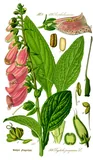
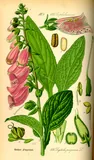
CG-030: fetch the public-domain foxglove scan, verify SOURCES.md roles
Illustration_Digitalis_purpurea0_clean.jpg is CC BY-SA 3.0 as the
editor's own derivative work, not a faithful PD reproduction; this
repository is MIT-licensed and ships no share-alike material, so the
foxglove now pins and fetches the original Illustration_Digitalis_
purpurea0.jpg (public domain), cropped the same way as every other
plate.

SOURCES.md now records three roles per plate instead of one "artist"
column, each verified from the file's own Commons Artist field rather
than assumed from a "_clean"/"_white" filename or the uploader's name:
the plate's illustrator (Thomé, except the fern, whose 1903-printing
plate the title page credits to Walter Müller), the scan's source
(a Commons upload or, for the fern, the Biodiversity Heritage Library),
and the editor of a cleaned derivative where the file page actually
credits one. A Commons username is only ever listed as an editor, never
as an artist.

diff --git a/src/garden/platefetch.py b/src/garden/platefetch.py
@@ -30,10 +30,16 @@ YEAR = "1885"
 
 # Commons names Thomé's plates "Illustration <Genus> <species>0.jpg" (and "... clean.jpg" for
 # the background-removed version). Three plants have no plate under their own name: Thomé drew
-# no corn poppy, so the poppy is his prickly poppy (Tafel 260); the bramble is his Tafel 398,
-# Rubus thyrsoideus Wimm. of the R. fruticosus aggregate, filed under a misspelt "candidans"; and
-# the male fern (Tafel 10) is missing from the plate-only set, so it comes from the Biodiversity
-# Heritage Library's scan of the 1903 printing, which Commons files under Thomé's Flora as well.
+# no corn poppy, so the poppy plate is his prickly poppy, Papaver argemone (Tafel 260); the
+# bramble is his Tafel 398, Rubus thyrsoideus Wimm. of the R. fruticosus aggregate, filed under a
+# misspelt "candidans"; and the male fern (Tafel 10) is missing from the plate-only set, so it
+# comes from the Biodiversity Heritage Library's scan of the 1903 printing, which Commons files
+# under Thomé's Flora as well.
+#
+# The foxglove prefix pins the original public-domain scan ("Digitalis_purpurea0.jpg"), not the
+# "_clean" background-removed derivative, which Commons licenses CC BY-SA 3.0 as the editor's own
+# work rather than a faithful reproduction of Thomé's plate: this repository is MIT-licensed and
+# ships no share-alike material.
 #
 # The seven below are picked from Commons' "Thomé, Flora von Deutschland (modified)" category for
 # colour that pops against the other five's greens and dusty pinks: peony's deep magenta, quince's
@@ -43,7 +49,7 @@ YEAR = "1885"
 CANDIDATES: dict[str, list[str]] = {
     "pea": ["Illustration_Pisum_sativum"],
     "bramble": ["Illustration_Rubus_candidans0."],
-    "foxglove": ["Illustration_Digitalis_purpurea"],
+    "foxglove": ["Illustration_Digitalis_purpurea0."],
     "fern": ["Prof._Dr._Thomé's_Flora_von_Deutschland,_Österreich_und_der_Schweiz,_in_Wort_und_Bild,"
              "_für_Schule_und_Haus;_mit_..._Tafeln_..._von_Walter_Müller_(Pl._10)_(7845241910)"],
     "poppy": ["Illustration_Papaver_argemone0."],
@@ -55,6 +61,15 @@ CANDIDATES: dict[str, list[str]] = {
     "adonis": ["Illustration_Adonis_vernalis0_clean."],
     "daphne": ["Daphne_mezereum,_Thomé-347."],
 }
+
+# The edition's own title names a different plate illustrator than the work's author (Thomé):
+# only the fern, whose plate is from the 1903 printing's Biodiversity Heritage Library scan,
+# credited on its title page to Walter Müller (not "Migula, Walter", the 1903 text's reviser,
+# who Commons' own Artist field lists alongside Thomé for that file).
+ILLUSTRATOR: dict[str, str] = {"fern": "Walter Müller"}
+
+# Where a plate did not come from a direct Commons upload of the scan.
+SOURCE: dict[str, str] = {"fern": "Biodiversity Heritage Library"}
 
 
 def pick_file(files: list[dict[str, Any]]) -> dict[str, Any] | None:
@@ -132,9 +147,12 @@ def fetch_all(out_dir: Path, keys: list[str] | None = None, height: int = 900, l
             (staging / f"{key}.webp").write_bytes(main)
             (staging / f"{key}-thumb.webp").write_bytes(thumb)
             meta = f.get("extmetadata") or {}
+            raw_artist = _plain(meta.get("Artist", {}).get("value", ""))
             rows.append({
                 "key": key, "latin": p["latin"], "title": f["name"], "url": f.get("descriptionurl") or f["url"],
-                "artist": _plain(meta.get("Artist", {}).get("value", "")) or ARTIST,
+                "illustrator": ILLUSTRATOR.get(key, ARTIST),
+                "source": SOURCE.get(key, "Wikimedia Commons"),
+                "editor": _editor(raw_artist),
                 "license": _plain(meta.get("LicenseShortName", {}).get("value", "")) or "Public domain",
                 "bytes": len(main),
             })
@@ -154,6 +172,22 @@ def _plain(html: str) -> str:
     return re.sub(r"<[^>]+>", "", html).strip()
 
 
+def _editor(raw_artist: str) -> str:
+    """The Commons-credited editor of a cleaned derivative, verified from the file's own Artist
+    metadata rather than assumed from a "_clean"/"_white" filename: most such files still name
+    only Thomé as Artist (no separate editor is credited on the page), and a few explicitly
+    credit a "derivative work" editor or a Commons username in place of Thomé."""
+    import re
+
+    for line in raw_artist.splitlines():
+        line = line.strip()
+        if line.lower().startswith("derivative work:"):
+            return re.sub(r"\(talk\)\s*$", "", line.split(":", 1)[1], flags=re.I).strip()
+    if raw_artist and "thom" not in raw_artist.lower():
+        return raw_artist.strip()
+    return ""
+
+
 def sources_markdown(rows: list[dict[str, Any]]) -> str:
     import re
 
@@ -166,10 +200,15 @@ def sources_markdown(rows: list[dict[str, Any]]) -> str:
         "# Plate sources", "",
         f"Scanned plates from *{WORK}* ({ARTIST}, Gera, {YEAR}), via Wikimedia Commons. The work is in",
         "the public domain; the files here are cropped, downsampled WebP copies made by `garden plants --fetch`",
-        f"on {dt.date.today().isoformat()}.", "",
-        "| plant | species | Commons file | artist | licence | size |", "|---|---|---|---|---|---|",
+        f"on {dt.date.today().isoformat()}. Roles below are as verified on each file's own Commons page: the",
+        "plate's illustrator (Thomé unless the edition names another), the scan's source, and the editor of a",
+        "cleaned derivative where the file page credits one (a Commons username is an editor, not an artist).",
+        "",
+        "| plant | species | Commons file | illustrator | source | editor | licence | size |",
+        "|---|---|---|---|---|---|---|---|",
     ]
     for r in rows:
         lines.append(f"| {cell(r['key'])} | *{cell(r['latin'])}* | [{cell(r['title'])}]({cell(r['url'])}) | "
-                      f"{cell(r['artist'])} | {cell(r['license'])} | {r['bytes'] // 1024} KB |")
+                      f"{cell(r['illustrator'])} | {cell(r['source'])} | {cell(r['editor']) or '—'} | "
+                      f"{cell(r['license'])} | {r['bytes'] // 1024} KB |")
     return "\n".join(lines) + "\n"

diff --git a/tests/test_platefetch.py b/tests/test_platefetch.py
@@ -3,7 +3,7 @@
 import pytest
 
 from garden.plants import PLANTS
-from garden.platefetch import CANDIDATES, pick_file, prepare, sources_markdown
+from garden.platefetch import CANDIDATES, _editor, pick_file, prepare, sources_markdown
 
 
 def test_every_plant_has_commons_candidates_and_a_file_is_chosen_sensibly():
@@ -20,23 +20,44 @@ def test_every_plant_has_commons_candidates_and_a_file_is_chosen_sensibly():
 
 def test_sources_markdown_lists_each_plate():
     md = sources_markdown([{"key": "pea", "latin": "Pisum sativum", "title": "Illustration_Pisum_sativum0_clean.jpg",
-                            "url": "https://commons.wikimedia.org/wiki/File:x", "artist": "Otto Wilhelm Thomé", "license": "Public domain", "bytes": 150000}])
-    assert "| pea | *Pisum sativum* | [Illustration_Pisum_sativum0_clean.jpg](https://commons.wikimedia.org/wiki/File:x) | Otto Wilhelm Thomé | Public domain | 146 KB |" in md
+                            "url": "https://commons.wikimedia.org/wiki/File:x", "illustrator": "Otto Wilhelm Thomé",
+                            "source": "Wikimedia Commons", "editor": "User:Kilom691", "license": "Public domain", "bytes": 150000}])
+    assert ("| pea | *Pisum sativum* | [Illustration_Pisum_sativum0_clean.jpg](https://commons.wikimedia.org/wiki/File:x) | "
+            "Otto Wilhelm Thomé | Wikimedia Commons | User:Kilom691 | Public domain | 146 KB |") in md
     assert "1885" in md
 
 
-def test_sources_markdown_collapses_a_multiline_artist_credit():
-    # Commons attributes some derivative files (e.g. the snapdragon plate) with a multi-line
-    # credit; a raw newline in a cell would split the row and break the rest of the table.
+def test_sources_markdown_marks_a_plate_with_no_credited_editor():
+    md = sources_markdown([{"key": "bramble", "latin": "Rubus fruticosus agg.", "title": "Illustration_Rubus_candidans0.jpg",
+                            "url": "https://commons.wikimedia.org/wiki/File:x", "illustrator": "Otto Wilhelm Thomé",
+                            "source": "Wikimedia Commons", "editor": "", "license": "Public domain", "bytes": 96000}])
+    assert "| Otto Wilhelm Thomé | Wikimedia Commons | — | Public domain | 93 KB |" in md
+
+
+def test_sources_markdown_collapses_a_multiline_credit():
+    # Commons attributes some files with a multi-line credit; a raw newline in a cell would
+    # split the row and break the rest of the table.
     md = sources_markdown([{"key": "snapdragon", "latin": "Antirrhinum majus", "title": "Illustration_Antirrhinum_majus_clean.jpg",
-                            "url": "https://commons.wikimedia.org/wiki/File:x",
-                            "artist": "Illustration_Antirrhinum_majus0.jpg: Prof. Dr. Otto Wilhelm Thomé\nderivative work: Aroche (talk)",
+                            "url": "https://commons.wikimedia.org/wiki/File:x", "illustrator": "Otto Wilhelm Thomé",
+                            "source": "Wikimedia Commons",
+                            "editor": "Illustration_Antirrhinum_majus0.jpg: Prof. Dr. Otto Wilhelm Thomé\nderivative work: Aroche (talk)",
                             "license": "Public domain", "bytes": 62000}])
     rows = [line for line in md.splitlines() if line.startswith("|")]
     assert len(rows) == 3  # header, separator, one data row for the one plate
     assert rows[-1] == ("| snapdragon | *Antirrhinum majus* | [Illustration_Antirrhinum_majus_clean.jpg]"
-                         "(https://commons.wikimedia.org/wiki/File:x) | Illustration_Antirrhinum_majus0.jpg: "
-                         "Prof. Dr. Otto Wilhelm Thomé derivative work: Aroche (talk) | Public domain | 60 KB |")
+                         "(https://commons.wikimedia.org/wiki/File:x) | Otto Wilhelm Thomé | Wikimedia Commons | "
+                         "Illustration_Antirrhinum_majus0.jpg: Prof. Dr. Otto Wilhelm Thomé derivative work: Aroche (talk) "
+                         "| Public domain | 60 KB |")
+
+
+def test_editor_is_verified_from_the_files_own_artist_field_not_assumed():
+    # A plain Thomé credit names no separate editor, even on a "_clean"/"_white" file, unless
+    # the file's own Artist field actually names someone else.
+    assert _editor("") == ""
+    assert _editor("Prof. Dr. Otto Wilhelm Thomé") == ""
+    assert _editor("Migula, Walter; Thomé, Otto W.") == ""  # the fern: no cleaned derivative involved
+    assert _editor("User:Kilom691") == "User:Kilom691"
+    assert _editor("Illustration_Antirrhinum_majus0.jpg: Prof. Dr. Otto Wilhelm Thomé\nderivative work: Aroche (talk)") == "Aroche"
 
 
 def test_prepare_crops_margins_and_makes_a_thumbnail():

diff --git a/src/garden/web/static/plates/SOURCES.md b/src/garden/web/static/plates/SOURCES.md
@@ -2,19 +2,21 @@
 
 Scanned plates from *Prof. Dr. Thomé's Flora von Deutschland, Österreich und der Schweiz* (Otto Wilhelm Thomé, Gera, 1885), via Wikimedia Commons. The work is in
 the public domain; the files here are cropped, downsampled WebP copies made by `garden plants --fetch`
-on 2026-09-04.
+on 2026-09-05. Roles below are as verified on each file's own Commons page: the
+plate's illustrator (Thomé unless the edition names another), the scan's source, and the editor of a
+cleaned derivative where the file page credits one (a Commons username is an editor, not an artist).
 
-| plant | species | Commons file | artist | licence | size |
-|---|---|---|---|---|---|
-| pea | *Pisum sativum* | [Illustration_Pisum_sativum0_clean.jpg](https://commons.wikimedia.org/wiki/File:Illustration_Pisum_sativum0_clean.jpg) | User:Kilom691 | Public domain | 77 KB |
-| bramble | *Rubus fruticosus* | [Illustration_Rubus_candidans0.jpg](https://commons.wikimedia.org/wiki/File:Illustration_Rubus_candidans0.jpg) | Otto Wilhelm Thomé | Public domain | 96 KB |
-| foxglove | *Digitalis purpurea* | [Illustration_Digitalis_purpurea0_clean.jpg](https://commons.wikimedia.org/wiki/File:Illustration_Digitalis_purpurea0_clean.jpg) | User:Kilom691 | CC BY-SA 3.0 | 94 KB |
-| fern | *Dryopteris filix-mas* | [Prof._Dr._Thomé's_Flora_von_Deutschland,_Österreich_und_der_Schweiz,_in_Wort_und_Bild,_für_Schule_und_Haus;_mit_..._Tafeln_..._von_Walter_Müller_(Pl._10)_(7845241910).jpg](https://commons.wikimedia.org/wiki/File:Prof._Dr._Thom%C3%A9%27s_Flora_von_Deutschland,_%C3%96sterreich_und_der_Schweiz,_in_Wort_und_Bild,_f%C3%BCr_Schule_und_Haus;_mit_..._Tafeln_..._von_Walter_M%C3%BCller_(Pl._10)_(7845241910).jpg) | Migula, Walter; Thomé, Otto W. | Public domain | 97 KB |
-| poppy | *Papaver rhoeas* | [Illustration_Papaver_argemone0.jpg](https://commons.wikimedia.org/wiki/File:Illustration_Papaver_argemone0.jpg) | Otto Wilhelm Thomé | Public domain | 72 KB |
-| peony | *Paeonia mascula* | [Illustration_Paeonia_mascula1.jpg](https://commons.wikimedia.org/wiki/File:Illustration_Paeonia_mascula1.jpg) | Prof. Dr. Otto Wilhelm Thomé | Public domain | 97 KB |
-| quince | *Cydonia oblonga* | [Illustration_Cydonia_oblonga0_-_clean.jpg](https://commons.wikimedia.org/wiki/File:Illustration_Cydonia_oblonga0_-_clean.jpg) | Otto Wilhelm Thomé | Public domain | 83 KB |
-| orchid | *Cypripedium calceolus* | [Illustration_Cypripedium_calceolus0_clean.jpg](https://commons.wikimedia.org/wiki/File:Illustration_Cypripedium_calceolus0_clean.jpg) | User:Kilom691 | Public domain | 75 KB |
-| thistle | *Carduus nutans* | [Illustration_Carduus_nutans0_white.jpg](https://commons.wikimedia.org/wiki/File:Illustration_Carduus_nutans0_white.jpg) | Dr. Otto Wilhelm Thomé | Public domain | 79 KB |
-| snapdragon | *Antirrhinum majus* | [Illustration_Antirrhinum_majus_clean.jpg](https://commons.wikimedia.org/wiki/File:Illustration_Antirrhinum_majus_clean.jpg) | Illustration_Antirrhinum_majus0.jpg: Prof. Dr. Otto Wilhelm Thomé derivative work: Aroche (talk) | Public domain | 61 KB |
-| adonis | *Adonis vernalis* | [Illustration_Adonis_vernalis0_clean.jpg](https://commons.wikimedia.org/wiki/File:Illustration_Adonis_vernalis0_clean.jpg) | User:Kilom691 | Public domain | 74 KB |
-| daphne | *Daphne mezereum* | [Daphne_mezereum,_Thomé-347.png](https://commons.wikimedia.org/wiki/File:Daphne_mezereum,_Thom%C3%A9-347.png) | Prof. Dr. Otto Wilhelm Thomé | Public domain | 83 KB |
+| plant | species | Commons file | illustrator | source | editor | licence | size |
+|---|---|---|---|---|---|---|---|
+| pea | *Pisum sativum* | [Illustration_Pisum_sativum0_clean.jpg](https://commons.wikimedia.org/wiki/File:Illustration_Pisum_sativum0_clean.jpg) | Otto Wilhelm Thomé | Wikimedia Commons | User:Kilom691 | Public domain | 77 KB |
+| bramble | *Rubus fruticosus agg.* | [Illustration_Rubus_candidans0.jpg](https://commons.wikimedia.org/wiki/File:Illustration_Rubus_candidans0.jpg) | Otto Wilhelm Thomé | Wikimedia Commons | — | Public domain | 96 KB |
+| foxglove | *Digitalis purpurea* | [Illustration_Digitalis_purpurea0.jpg](https://commons.wikimedia.org/wiki/File:Illustration_Digitalis_purpurea0.jpg) | Otto Wilhelm Thomé | Wikimedia Commons | — | Public domain | 97 KB |
+| fern | *Dryopteris filix-mas* | [Prof._Dr._Thomé's_Flora_von_Deutschland,_Österreich_und_der_Schweiz,_in_Wort_und_Bild,_für_Schule_und_Haus;_mit_..._Tafeln_..._von_Walter_Müller_(Pl._10)_(7845241910).jpg](https://commons.wikimedia.org/wiki/File:Prof._Dr._Thom%C3%A9%27s_Flora_von_Deutschland,_%C3%96sterreich_und_der_Schweiz,_in_Wort_und_Bild,_f%C3%BCr_Schule_und_Haus;_mit_..._Tafeln_..._von_Walter_M%C3%BCller_(Pl._10)_(7845241910).jpg) | Walter Müller | Biodiversity Heritage Library | — | Public domain | 97 KB |
+| poppy | *Papaver argemone* | [Illustration_Papaver_argemone0.jpg](https://commons.wikimedia.org/wiki/File:Illustration_Papaver_argemone0.jpg) | Otto Wilhelm Thomé | Wikimedia Commons | — | Public domain | 72 KB |
+| peony | *Paeonia mascula* | [Illustration_Paeonia_mascula1.jpg](https://commons.wikimedia.org/wiki/File:Illustration_Paeonia_mascula1.jpg) | Otto Wilhelm Thomé | Wikimedia Commons | — | Public domain | 97 KB |
+| quince | *Cydonia oblonga* | [Illustration_Cydonia_oblonga0_-_clean.jpg](https://commons.wikimedia.org/wiki/File:Illustration_Cydonia_oblonga0_-_clean.jpg) | Otto Wilhelm Thomé | Wikimedia Commons | — | Public domain | 83 KB |
+| orchid | *Cypripedium calceolus* | [Illustration_Cypripedium_calceolus0_clean.jpg](https://commons.wikimedia.org/wiki/File:Illustration_Cypripedium_calceolus0_clean.jpg) | Otto Wilhelm Thomé | Wikimedia Commons | User:Kilom691 | Public domain | 75 KB |
+| thistle | *Carduus nutans* | [Illustration_Carduus_nutans0_white.jpg](https://commons.wikimedia.org/wiki/File:Illustration_Carduus_nutans0_white.jpg) | Otto Wilhelm Thomé | Wikimedia Commons | — | Public domain | 79 KB |
+| snapdragon | *Antirrhinum majus* | [Illustration_Antirrhinum_majus_clean.jpg](https://commons.wikimedia.org/wiki/File:Illustration_Antirrhinum_majus_clean.jpg) | Otto Wilhelm Thomé | Wikimedia Commons | Aroche | Public domain | 61 KB |
+| adonis | *Adonis vernalis* | [Illustration_Adonis_vernalis0_clean.jpg](https://commons.wikimedia.org/wiki/File:Illustration_Adonis_vernalis0_clean.jpg) | Otto Wilhelm Thomé | Wikimedia Commons | User:Kilom691 | Public domain | 74 KB |
+| daphne | *Daphne mezereum* | [Daphne_mezereum,_Thomé-347.png](https://commons.wikimedia.org/wiki/File:Daphne_mezereum,_Thom%C3%A9-347.png) | Otto Wilhelm Thomé | Wikimedia Commons | — | Public domain | 83 KB |
